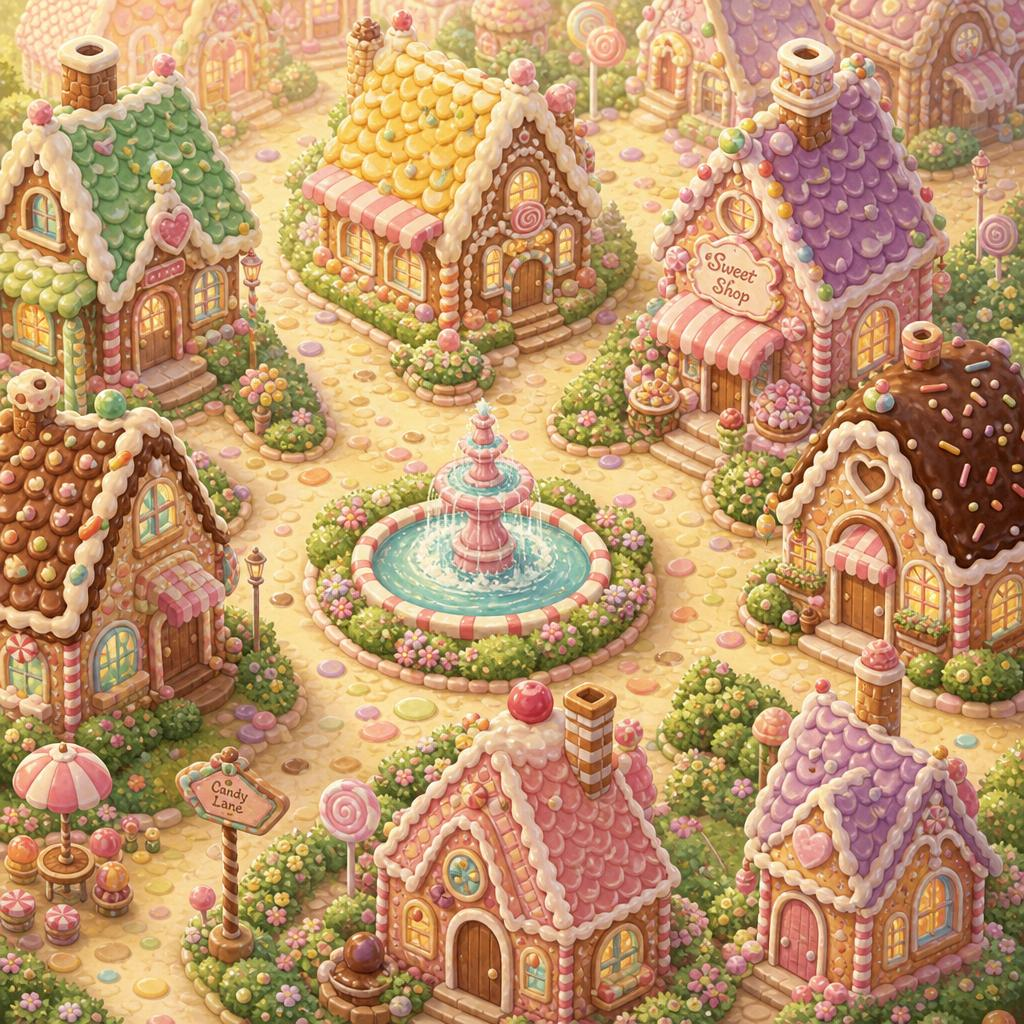
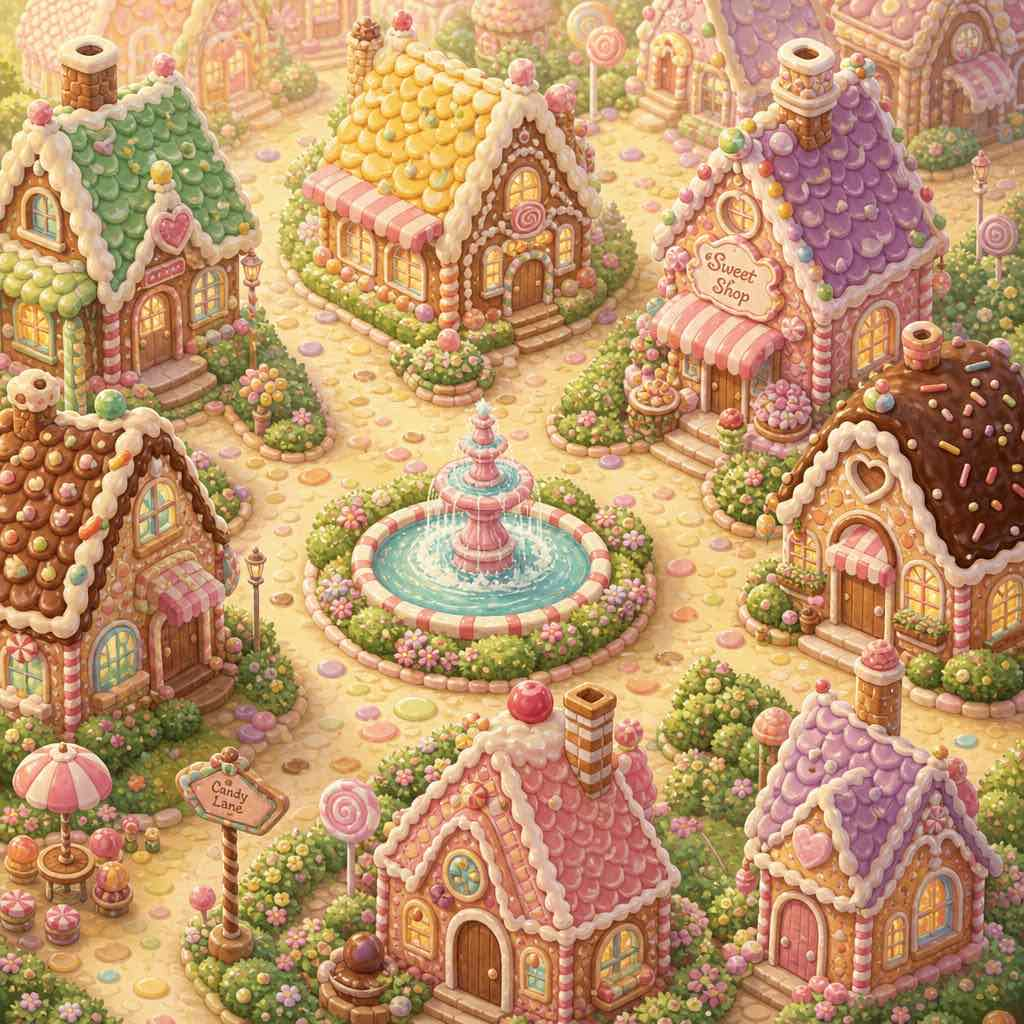
Fix bundle size: move audio to CDN, compress images, add .wxignore
- Remove 142 local audio files (1.6MB) — now served from GitHub Pages CDN
- Update game.js and spell.js to load audio from tylerh0902.github.io/kids-vocab-audio
- Compress map_bg.jpg, sq1_map.jpg, sq2_map.jpg to quality 25 (1.2MB → 295KB)
- Add .wxignore to exclude preview-planet.html dev file
- Total bundle: ~1MB, well under the 2MB WeChat limit

diff --git a/pages/game/game.js b/pages/game/game.js
@@ -133,7 +133,7 @@ Page({
 
   _speak(wordId, lang) {
     const ctx = wx.createInnerAudioContext();
-    ctx.src   = `/audio/${lang}/${wordId}.mp3`;
+    ctx.src   = `https://tylerh0902.github.io/kids-vocab-audio/${lang}/${wordId}.mp3`;
     ctx.play();
     ctx.onError(() => {
       // Fallback: no TTS in Mini Program without cloud function; silently ignore

diff --git a/pages/spell/spell.js b/pages/spell/spell.js
@@ -106,7 +106,7 @@ Page({
 
   _speak(wordId, lang) {
     const ctx = wx.createInnerAudioContext();
-    ctx.src   = `/audio/${lang}/${wordId}.mp3`;
+    ctx.src   = `https://tylerh0902.github.io/kids-vocab-audio/${lang}/${wordId}.mp3`;
     ctx.play();
     ctx.onError(() => {});
   },